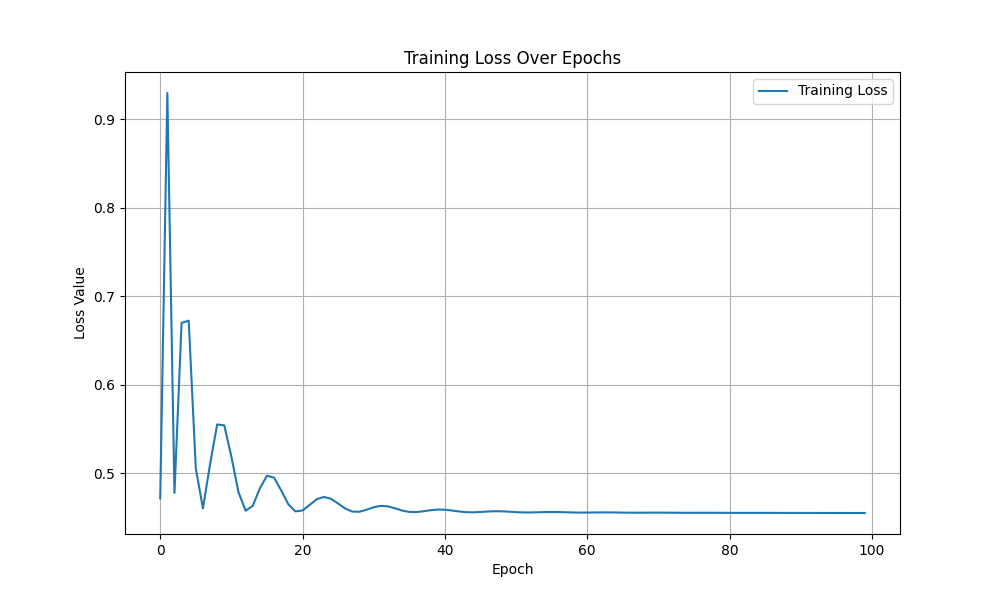
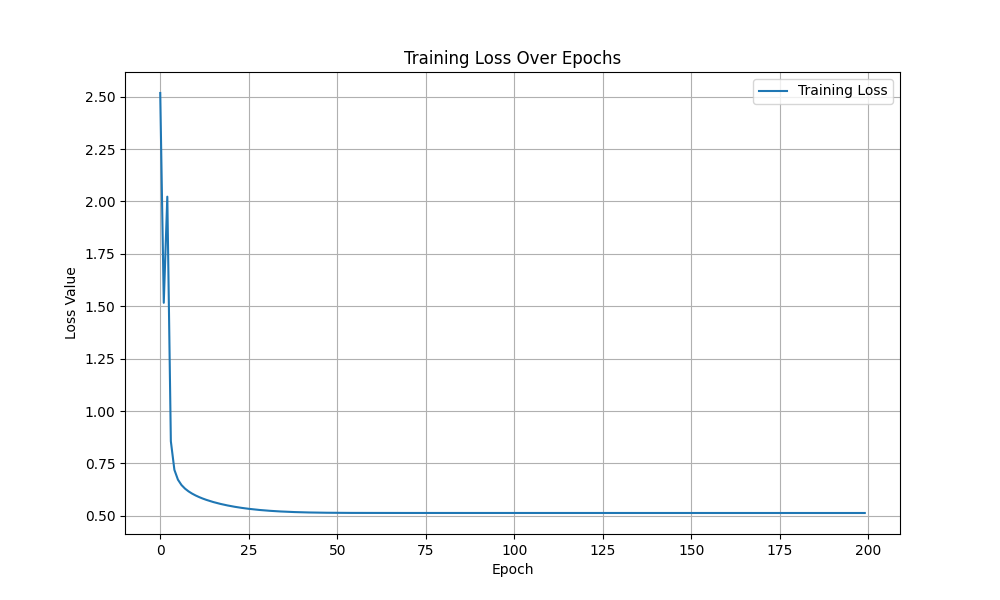
Changed to a time agnostic Neural ODE
changing to time-agnostic did not work and we ran into the same problem of a lackluster extrapolation.

diff --git a/models/neural_ode.py b/models/neural_ode.py
@@ -6,45 +6,46 @@ import numpy as np
 import os
  
 class ODEFunc(nn.Module):
-    def __init__(self):
+    def __init__(self, hidden_dim=64):
         super(ODEFunc, self).__init__()
 
-        #MLP
+        # MLP that takes state [y, v] and outputs derivatives [dy/dt, dv/dt]
         self.net = nn.Sequential(
-            nn.Linear(3, 50),        #3 here because we are concatenating periodic time function. 
+            nn.Linear(2, hidden_dim),    # Input: [y, v]
             nn.Tanh(), 
-            nn.Linear(50, 1)
+            nn.Linear(hidden_dim, hidden_dim),
+            nn.Tanh(),
+            nn.Linear(hidden_dim, 2)     # Output: [dy/dt, dv/dt]
         )
 
-    def forward(self, t, y):
-        #t is a scalar we need it to match ys shape.
-        t_vec = torch.ones_like(y) * t
-
-        #Concatenate
-        concatenated = torch.cat([y, t_vec], dim=1)
-
-        return self.net(concatenated)
+    def forward(self, t, state):
+        # state shape: [batch_size, 2] where state = [y, v]
+        # Output: [dy/dt, dv/dt]
+        # We ignore t because this is an autonomous system
+        return self.net(state)
 
     
-def train_ode(model, epochs, optimizer, criterion, t, y):
+def train_ode(model, epochs, optimizer, criterion, t, state):
     losses = []
 
-    #Training loop
+    # Training loop
     for epoch in range(epochs):
         optimizer.zero_grad()
 
-        #Integration from t_0 up to t_final, the solcer will solve at every timestamp in t_train
-        pred_y = odeint(model, y[0:1], t)
+        # Integration from t_0 up to t_final
+        pred_state = odeint(model, state[0:1], t)
 
-        loss = criterion(pred_y, y)
+        loss = criterion(pred_state, state)
         loss.backward()
         optimizer.step()
 
         losses.append(loss.item())
 
-        print(f"Epoch #{epoch} | Loss: {loss.item()}")
+        if epoch % 20 == 0:  # Print less frequently
+            print(f"Epoch #{epoch} | Loss: {loss.item():.6f}")
 
     return losses
+
 
 def plot_loss(losses):
     plt.figure(figsize=(10, 6))
@@ -64,47 +65,55 @@ def plot_loss(losses):
     
     full_path = os.path.join(results_dir, "Losses.png")
 
-    #Save the figure
     plt.savefig(full_path)
     print(f"Plot saved to: {full_path}")
 
-def extrapolate(model, t_train, y_train, device):
+
+def extrapolate(model, t_train, state_train, device):
     t_future = torch.linspace(float(t_train[-1]), 6 * torch.pi, 50).to(device)
 
     with torch.no_grad():
-        #Use last known point as the new initial condition
-        y_future = odeint(model, y_train[-1:], t_future)    #[-1:] so that the shape is (1, 1)
+        # Use last known state as the new initial condition
+        state_future = odeint(model, state_train[-1:], t_future)
 
-    return t_future, y_future
+    return t_future, state_future
 
-def plot_vector_field(model, file_name, device, t_range=(0, 6*np.pi), y_range=(-1.5, 1.5)):
-    #create a grid of points
-    t_grid = np.linspace(t_range[0], t_range[1], 20)
+
+def plot_vector_field(model, file_name, device, t_range=(0, 6*np.pi), y_range=(-1.5, 1.5), v_range=(-1.5, 1.5)):
+    """
+    For autonomous systems, we plot the phase space (y vs v), not (t vs y)
+    """
     y_grid = np.linspace(y_range[0], y_range[1], 20)
-    T, Y = np.meshgrid(t_grid, y_grid)
+    v_grid = np.linspace(v_range[0], v_range[1], 20)
+    Y, V = np.meshgrid(y_grid, v_grid)
 
-    # Calculate gradients (dy/dt) for each point in the grid
-    U = np.ones_like(T) # Time always moves forward at rate 1
-    V = np.zeros_like(Y) # This will hold our dy/dt
+    # Calculate derivatives at each point
+    dY = np.zeros_like(Y)  # dy/dt
+    dV = np.zeros_like(V)  # dv/dt
 
     model.eval()
     with torch.no_grad():
-        for i in range(len(t_grid)):
-            for j in range(len(y_grid)):
-                t_val = torch.tensor([[t_grid[i]]]).float().to(device)
-                y_val = torch.tensor([[y_grid[j]]]).float().to(device)
+        for i in range(len(y_grid)):
+            for j in range(len(v_grid)):
+                state = torch.tensor([[y_grid[i], v_grid[j]]]).float().to(device)
+                
+                # The model outputs [dy/dt, dv/dt]
+                derivatives = model(None, state)  # t is ignored
+                dY[j, i] = derivatives[0, 0].cpu().item()
+                dV[j, i] = derivatives[0, 1].cpu().item()
 
-                # The model outputs the derivative
-                dy_dt = model(t_val, y_val)
-                V[j, i] = dy_dt.item()
-
-    plt.figure(figsize=(10, 6))
-    plt.streamplot(T, Y, U, V, color=V, cmap='coolwarm')
-    plt.title("Learned Vector Field (Time vs. State)")
-    plt.xlabel("Time (t)")
-    plt.ylabel("Value (y)")
-    plt.colorbar(label='dy/dt (Slope)')
+    plt.figure(figsize=(10, 8))
+    plt.streamplot(Y, V, dY, dV, color=np.sqrt(dY**2 + dV**2), cmap='viridis')
+    plt.title("Phase Space: Learned Vector Field")
+    plt.xlabel("Position (y)")
+    plt.ylabel("Velocity (v)")
+    plt.colorbar(label='Magnitude of derivative')
     plt.grid(True, alpha=0.3)
+    
+    # Add a circle to show the true trajectory
+    theta = np.linspace(0, 2*np.pi, 100)
+    plt.plot(np.sin(theta), np.cos(theta), 'r--', alpha=0.5, label='True trajectory (circle)')
+    plt.legend()
     
     script_path = os.path.abspath(__file__)
     script_dir = os.path.dirname(script_path)
@@ -115,34 +124,35 @@ def plot_vector_field(model, file_name, device, t_range=(0, 6*np.pi), y_range=(-
     
     full_path = os.path.join(results_dir, file_name)
 
-    #Save the figure
     plt.savefig(full_path)
     print(f"Plot saved to: {full_path}")
 
-    return
 
-def plot_extrapolation(t_train, y_train, t_future, y_future, file_name, device):
-    #Generate Ground Truth for the whole range
+def plot_extrapolation(t_train, state_train, t_future, state_future, file_name):
+    # Extract positions from states
+    y_train = state_train[:, 0]
+    y_future = state_future[:, :, 0]  # Shape: [time, batch, features]
+    
+    # Generate Ground Truth for the whole range
     t_total = torch.linspace(0, 6 * np.pi, 200)
     y_total = torch.sin(t_total)
 
     plt.figure(figsize=(12, 6))
     
-    #Plot Ground Truth
+    # Plot Ground Truth
     plt.plot(t_total.numpy(), y_total.numpy(), color='gray', label='Ground Truth', linestyle='--', alpha=0.5)
     
-    #Plot Training Data
+    # Plot Training Data
     plt.scatter(t_train.cpu().numpy(), y_train.cpu().numpy(), color='red', label='Training Samples (Noisy)', s=20)
     
-    #Plot Extrapolation
-    #Note: we squeeze because odeint output is [time, batch, dim]
+    # Plot Extrapolation
     plt.plot(t_future.cpu().numpy(), y_future.detach().cpu().numpy().squeeze(), 
              color='blue', label='Neural ODE Extrapolation', linewidth=2)
 
     plt.axvline(x=t_train[-1].cpu().item(), color='black', linestyle=':', label='End of Training Data')
-    plt.title("Neural ODE: Beyond the Training Horizon")
+    plt.title("Neural ODE: Beyond the Training Horizon (State-Space)")
     plt.xlabel("Time (t)")
-    plt.ylabel("Value (y)")
+    plt.ylabel("Position (y)")
     plt.legend()
     plt.grid(True, alpha=0.3)
     
@@ -155,33 +165,58 @@ def plot_extrapolation(t_train, y_train, t_future, y_future, file_name, device):
     
     full_path = os.path.join(results_dir, file_name)
 
-    #Save the figure
     plt.savefig(full_path)
     print(f"Plot saved to: {full_path}")
 
-    return
 
-def plot_learned_dynamics_vs_true(model, device, t_train_end, t_max=30.0, n_points=500, y_dummy_value=0.0, figsize=(10, 6), file_name=None):
+def plot_learned_dynamics_vs_true(model, device, file_name, y_range=(-1.5, 1.5), n_points=30):
+    """
+    For autonomous systems, we plot learned dynamics in phase space
+    Shows: dv/dt vs y (should be -y) and dy/dt vs v (should be v)
+    """
     model.eval()
+    
+    fig, (ax1, ax2) = plt.subplots(1, 2, figsize=(14, 5))
+    
+    # Test range for position
+    y_test = np.linspace(y_range[0], y_range[1], n_points)
+    
+    # Plot 1: dv/dt vs y (should be -y)
     with torch.no_grad():
-        t_test = torch.linspace(0, t_max, n_points).unsqueeze(1).to(device)   # shape: (N, 1)
-        y_dummy = torch.full_like(t_test, y_dummy_value)
-        inputs = torch.cat([y_dummy, t_test], dim=1)
-        predicted_dydt = model.net(inputs).squeeze().cpu().numpy()
+        v_fixed = 0.0  # Fix velocity at 0
+        states = torch.tensor([[y, v_fixed] for y in y_test]).float().to(device)
+        derivatives = model(None, states).cpu().numpy()
+        dv_dt_learned = derivatives[:, 1]  # Second component is dv/dt
     
-    true_dydt = np.cos(t_test.squeeze().cpu().numpy())
+    true_dv_dt = -y_test  # True: dv/dt = -y
     
-    plt.figure(figsize=figsize)
-    plt.plot(t_test.cpu().numpy(), predicted_dydt, label='Learned dy/dt = f(y,t)', linewidth=2)
-    plt.plot(t_test.cpu().numpy(), true_dydt, '--', label='True cos(t)', linewidth=1.5)
-    plt.axvline(x=float(t_train_end), color='red', linestyle=':', 
-                label='End of training data', alpha=0.7)
+    ax1.plot(y_test, dv_dt_learned, 'b-', linewidth=2, label='Learned dv/dt')
+    ax1.plot(y_test, true_dv_dt, 'r--', linewidth=2, label='True dv/dt = -y')
+    ax1.set_xlabel('Position (y)')
+    ax1.set_ylabel('dv/dt')
+    ax1.set_title('Acceleration vs Position (v=0)')
+    ax1.legend()
+    ax1.grid(True, alpha=0.3)
     
-    plt.title("What the Neural ODE Actually Learned: dy/dt vs Time")
-    plt.xlabel("Time t")
-    plt.ylabel("dy/dt")
-    plt.legend()
-    plt.grid(True, alpha=0.3)
+    # Plot 2: dy/dt vs v (should be v)
+    with torch.no_grad():
+        y_fixed = 0.0  # Fix position at 0
+        v_test = np.linspace(y_range[0], y_range[1], n_points)
+        states = torch.tensor([[y_fixed, v] for v in v_test]).float().to(device)
+        derivatives = model(None, states).cpu().numpy()
+        dy_dt_learned = derivatives[:, 0]  # First component is dy/dt
+    
+    true_dy_dt = v_test  # True: dy/dt = v
+    
+    ax2.plot(v_test, dy_dt_learned, 'b-', linewidth=2, label='Learned dy/dt')
+    ax2.plot(v_test, true_dy_dt, 'r--', linewidth=2, label='True dy/dt = v')
+    ax2.set_xlabel('Velocity (v)')
+    ax2.set_ylabel('dy/dt')
+    ax2.set_title('Velocity Derivative (y=0)')
+    ax2.legend()
+    ax2.grid(True, alpha=0.3)
+    
+    plt.tight_layout()
     
     script_path = os.path.abspath(__file__)
     script_dir = os.path.dirname(script_path)
@@ -192,6 +227,5 @@ def plot_learned_dynamics_vs_true(model, device, t_train_end, t_max=30.0, n_poin
     
     full_path = os.path.join(results_dir, file_name)
 
-    #Save the figure
     plt.savefig(full_path)
     print(f"Plot saved to: {full_path}")

diff --git a/train_neural_ode.py b/train_neural_ode.py
@@ -6,32 +6,40 @@ from dataset.sine import generate_irregular
 device = torch.device("cuda" if torch.cuda.is_available() else "cpu")
 print(f"Using device: {device}")
 
-#Load Data
+# Load Data
 print("Loading Data...")
-t_train, y_train = generate_irregular(50)
+t_train, state_train = generate_irregular(100)
 
-# Sort both t and y together
+# Sort by time and keep state aligned
 sorted_indices = torch.argsort(t_train)
 t_train = t_train[sorted_indices]
-y_train = y_train[sorted_indices]
+state_train = state_train[sorted_indices]
 
 # Move data to device
 t_train = t_train.to(device)
-y_train = y_train.to(device)
+state_train = state_train.to(device)
 print("Data Loaded!")
+print(f"State shape: {state_train.shape}")  # Should be [100, 2]
 
-#Create model, optimizer and criterion
-model = ODEFunc().to(device)
-optimizer = torch.optim.Adam(list(model.parameters()), lr=0.005)
+# Create model, optimizer and criterion
+model = ODEFunc(hidden_dim=64).to(device)
+optimizer = torch.optim.Adam(model.parameters(), lr=0.01)
 criterion = torch.nn.MSELoss()
 
-#Training
+# Training
 print("\nTraining Neural ODE...")
-losses = train_ode(model, 100, optimizer, criterion, t_train, y_train)
+losses = train_ode(model, 200, optimizer, criterion, t_train, state_train)
 
-#Plotting loss
+# Plotting
+print("\nGenerating plots...")
 plot_loss(losses)
-t_future, y_future = extrapolate(model, t_train, y_train, device)
-plot_vector_field(model, "Vector Field for Sine Wave (100 Samples).png", device)
-plot_extrapolation(t_train, y_train, t_future, y_future, "Extrapolation for Sine Wave (100 Samples).png", device)
-plot_learned_dynamics_vs_true(model, device, t_train_end=4 * torch.pi, t_max=30.0, n_points=500, y_dummy_value=0.0, figsize=(10, 6), file_name="Learned Dynamics v True (100 Samples).png")
+
+t_future, state_future = extrapolate(model, t_train, state_train, device)
+
+plot_vector_field(model, file_name="Learned Vector Field (time agnostic).png", device=device)
+
+plot_extrapolation(t_train, state_train, t_future, state_future, 
+                   file_name="Extrapolation for Sine Wave (time agnostic).png")
+
+plot_learned_dynamics_vs_true(model, device=device, 
+                              file_name="Learned Dynamics (time agnostic).png")
